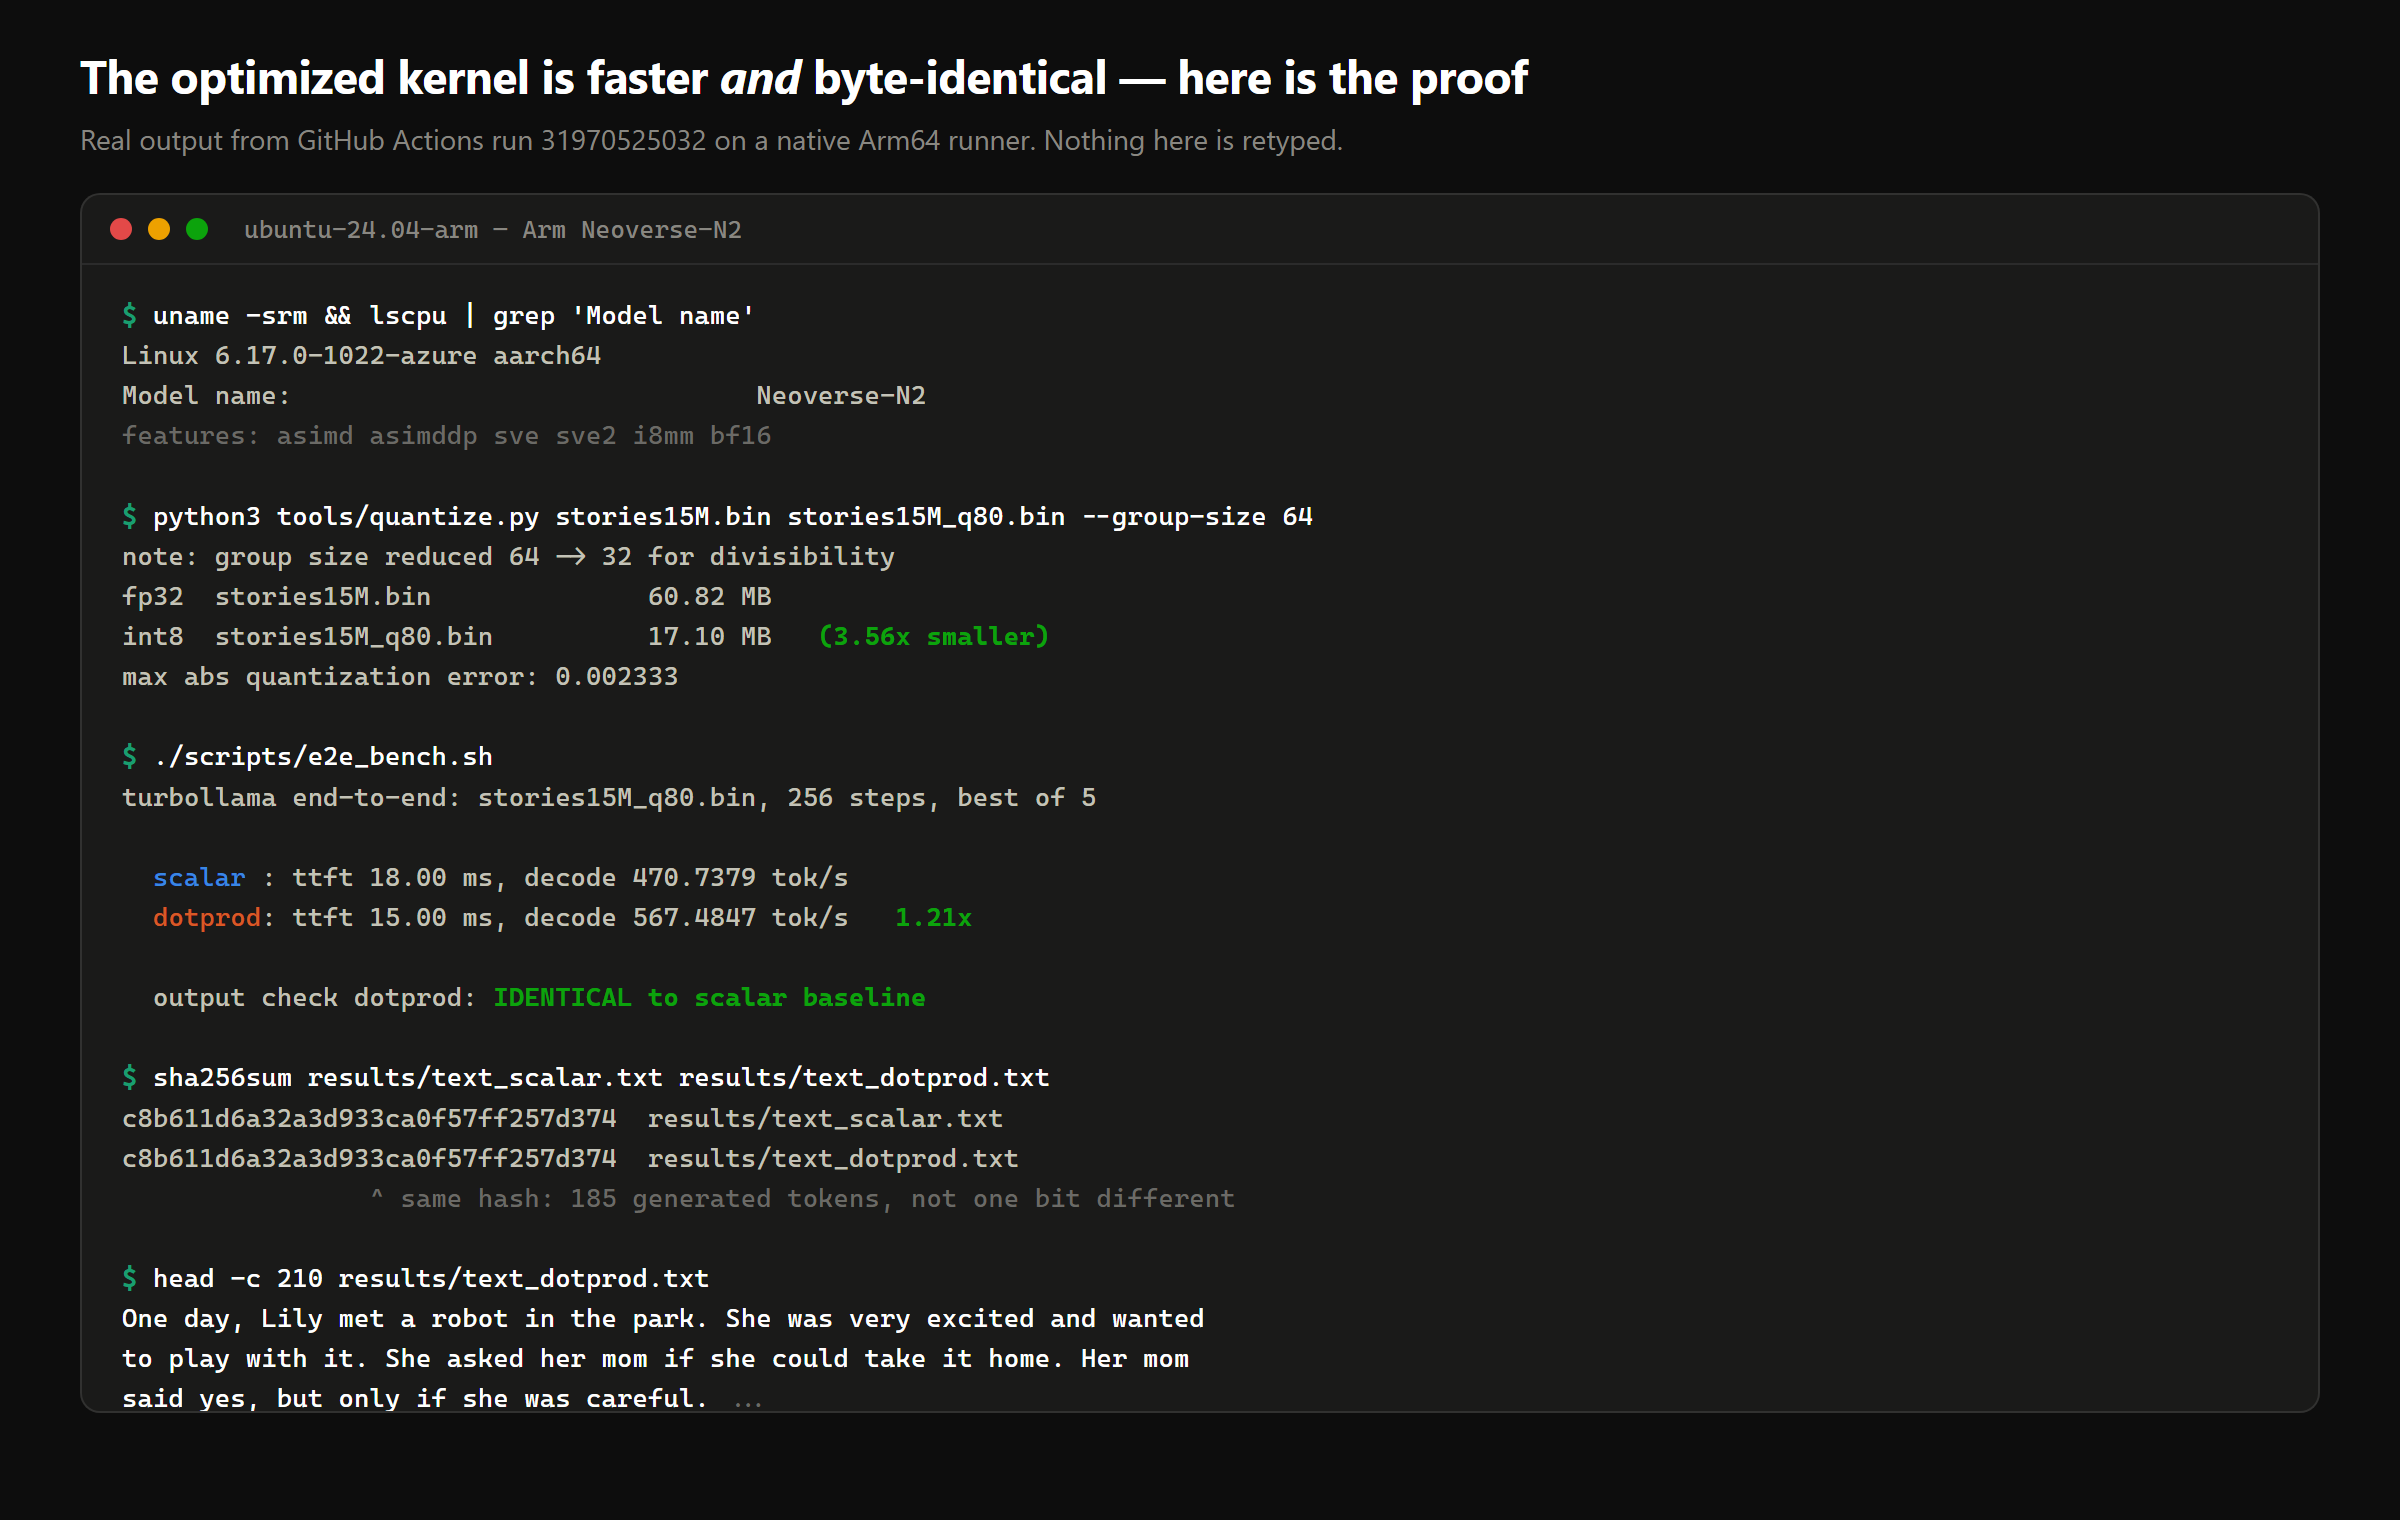
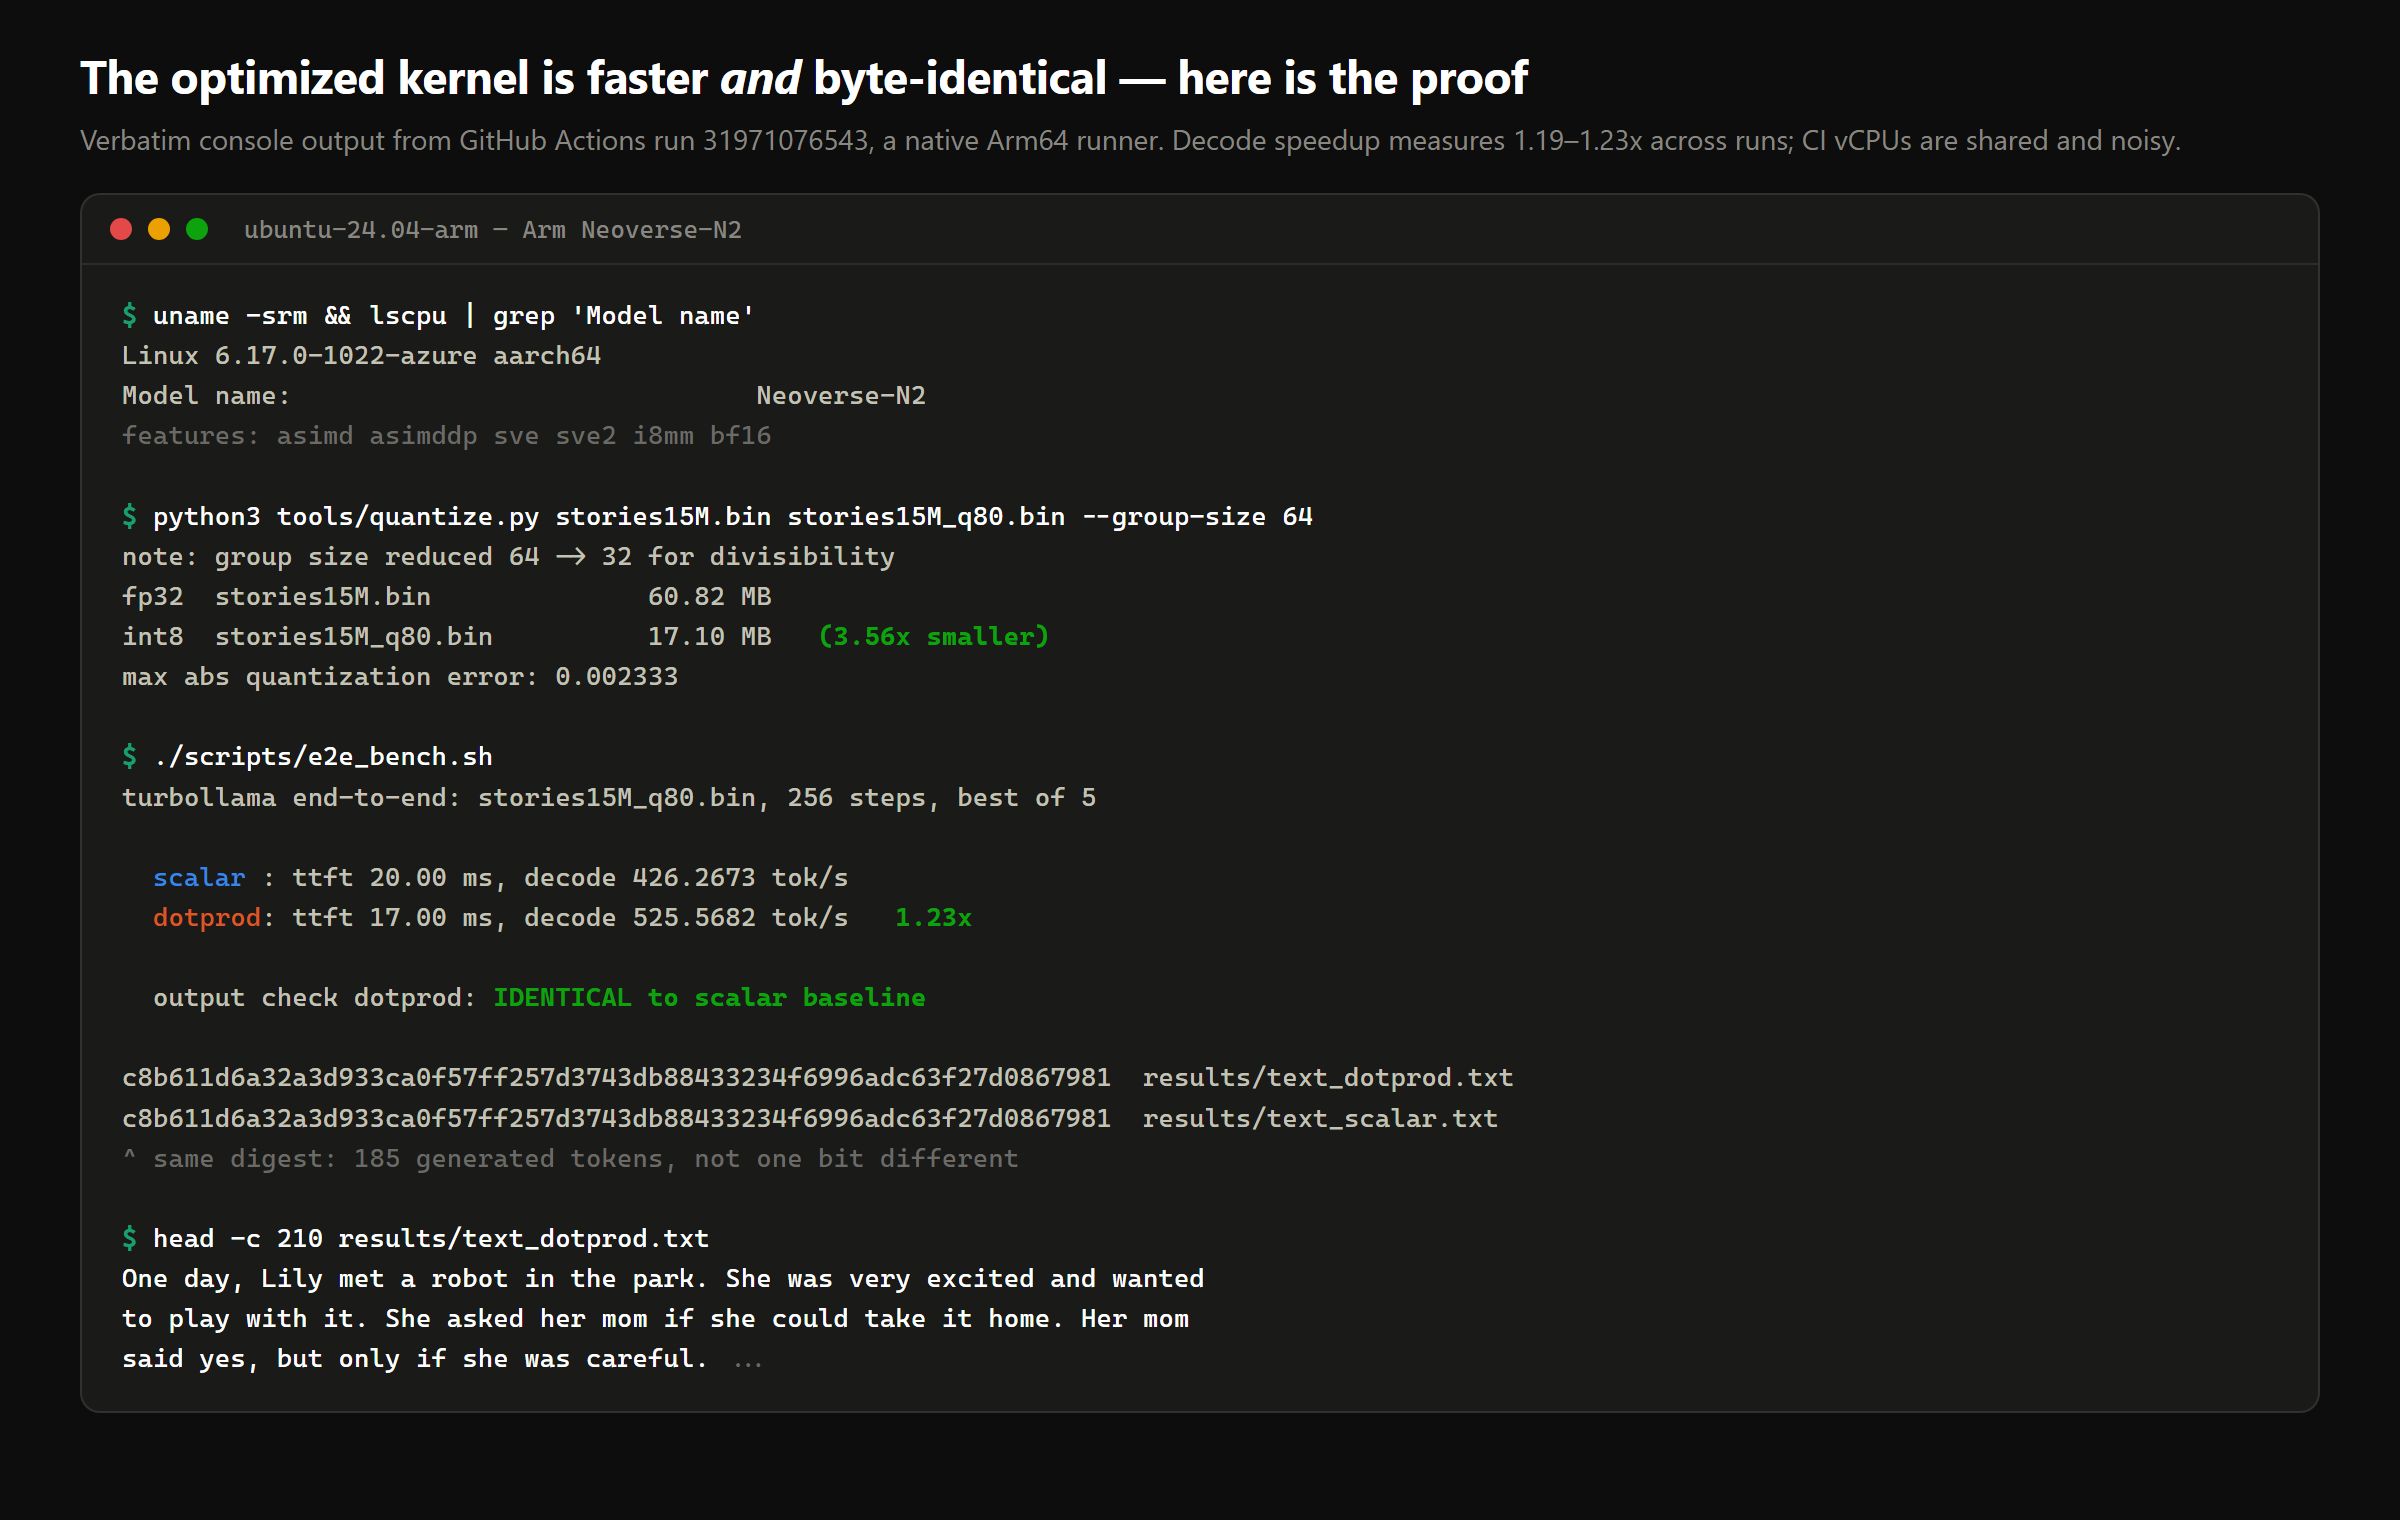
Add terminal card from real CI output; embed in README

diff --git a/assets/terminal-run.html b/assets/terminal-run.html
@@ -43,7 +43,8 @@
 <div class="wrap">
   <div class="cap">
     <h1>The optimized kernel is faster <em>and</em> byte-identical &mdash; here is the proof</h1>
-    <p>Real output from GitHub Actions run 31970525032 on a native Arm64 runner. Nothing here is retyped.</p>
+    <p>Verbatim console output from GitHub Actions run 31971076543, a native Arm64 runner.
+       Decode speedup measures 1.19&ndash;1.23x across runs; CI vCPUs are shared and noisy.</p>
   </div>
 
   <div class="term">
@@ -67,15 +68,14 @@ max abs quantization error: 0.002333
 <span class="p">$</span> <span class="c">./scripts/e2e_bench.sh</span>
 turbollama end-to-end: stories15M_q80.bin, 256 steps, best of 5
 
-  <span class="k">scalar</span> : ttft 18.00 ms, decode 470.7379 tok/s
-  <span class="o">dotprod</span>: ttft 15.00 ms, decode 567.4847 tok/s   <span class="g">1.21x</span>
+  <span class="k">scalar</span> : ttft 20.00 ms, decode 426.2673 tok/s
+  <span class="o">dotprod</span>: ttft 17.00 ms, decode 525.5682 tok/s   <span class="g">1.23x</span>
 
   output check dotprod: <span class="g">IDENTICAL to scalar baseline</span>
 
-<span class="p">$</span> <span class="c">sha256sum results/text_scalar.txt results/text_dotprod.txt</span>
-c8b611d6a32a3d933ca0f57ff257d374  results/text_scalar.txt
-c8b611d6a32a3d933ca0f57ff257d374  results/text_dotprod.txt
-<span class="m">                ^ same hash: 185 generated tokens, not one bit different</span>
+c8b611d6a32a3d933ca0f57ff257d3743db88433234f6996adc63f27d0867981  results/text_dotprod.txt
+c8b611d6a32a3d933ca0f57ff257d3743db88433234f6996adc63f27d0867981  results/text_scalar.txt
+<span class="m">^ same digest: 185 generated tokens, not one bit different</span>
 
 <span class="p">$</span> <span class="c">head -c 210 results/text_dotprod.txt</span>
 <span class="w">One day, Lily met a robot in the park. She was very excited and wanted

diff --git a/README.md b/README.md
@@ -94,6 +94,8 @@ the trust of anyone who knows the ISA.
 
 ## Correctness
 
+![Real CI output: faster and byte-identical](assets/terminal-run.png)
+
 Every kernel accumulates each quantization group into an `int32` before
 touching float. Integer addition is associative, so the SIMD paths are
 not merely *close* to the baseline — they are **bit-exact**. The harness
